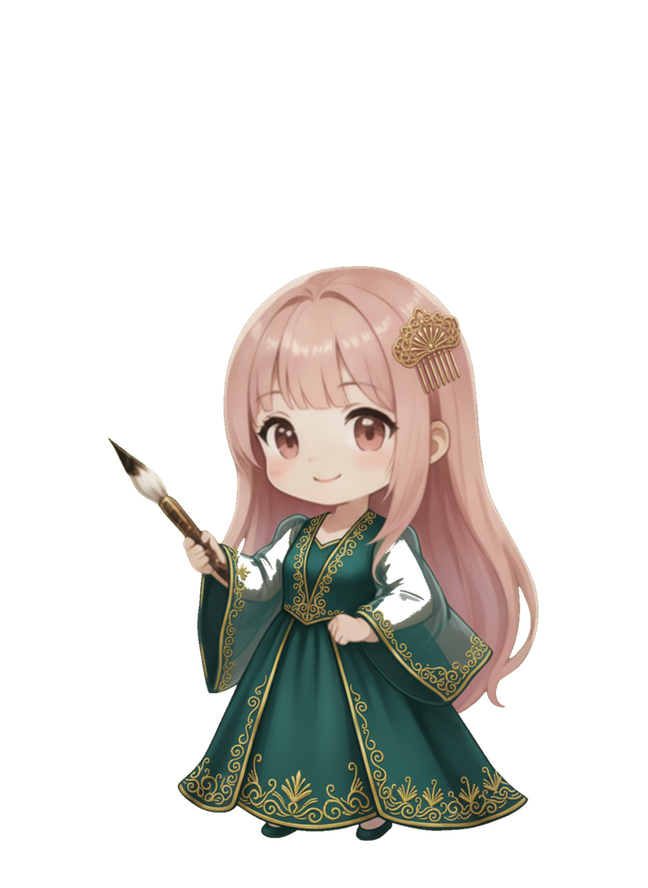
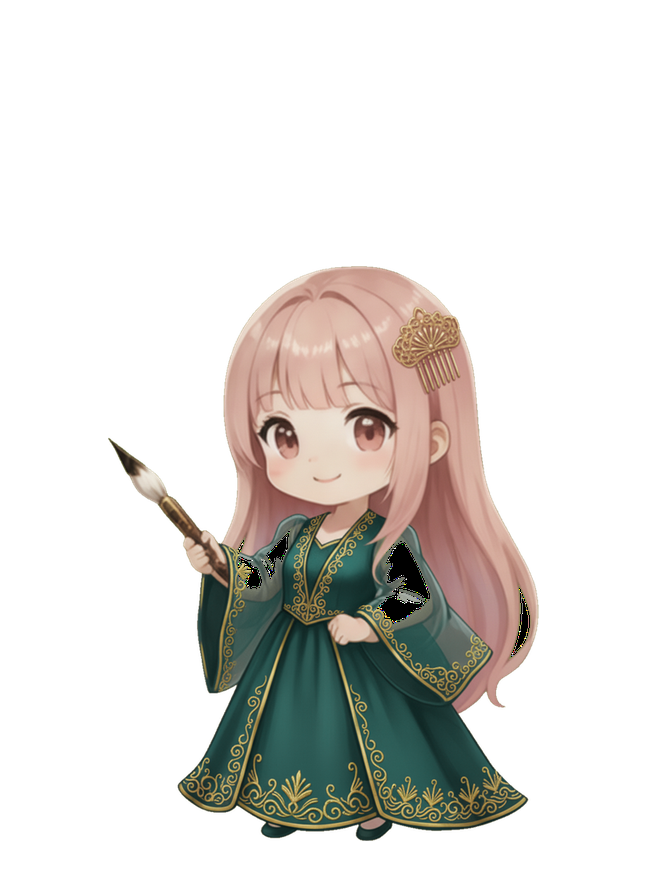
fix+feat(home/town/shop/dict): テルノ衣装の透過修正＋桜アバター差替(長/短)・筆キャラ非表示(ホーム/ショップ/在庫)＋ホームリング内を3行表示＋町の上部ボタン2行折返し＋ご褒美1/2トグル削除＋模試分析画面の母語バグ修正＋N3文法の下線修正(変種//・/〜/活用差に対応)＋新3点(ようとする/と共に/たって)の例文修正

Changed region(s): [[0.5864, 0.6081, 0.679, 0.6993], [0.3704, 0.5777, 0.463, 0.6689], [0.7716, 0.6689, 0.8333, 0.7601]]

diff --git a/src/home/HomeCoach.tsx b/src/home/HomeCoach.tsx
@@ -11,10 +11,9 @@ import SwipeSheet from '../components/SwipeSheet';
 import { useColors, type ThemeColors } from '../theme';
 import type { HomeStatus } from './homeStatus';
 
-const OPEN = require('../../assets/mywords/guide_open.png');
-const BLINK = require('../../assets/mywords/guide_blink.png');
-// 髪型「短髪」を装備中(かつ筆/衣装なし)の既定桜=短髪版(hair3を不透明化)。短髪用の閉じ目は無いのでまばたきは静止。
-const SHORT_OPEN = require('../../assets/mywords/guide_open_short.png');
+// 既定の桜(案内キャラ)=正面の立ち絵。髪型で長髪/短髪を出し分ける。筆は背負わない(筆キャラは廃止)。
+const SAKURA_LONG = require('../../assets/home/sakura_front_long.png');
+const SAKURA_SHORT = require('../../assets/home/sakura_front_short.png');
 // 柴1(pet_shiba1)だけ尻尾を振る=尻尾を別レイヤーに切り出し(尻尾=後/胴体=前・付け根を胴体で隠す)。
 const SHIBA1_BODY = require('../../assets/shop/companion/shiba1_body.png');
 const SHIBA1_TAIL = require('../../assets/shop/companion/shiba1_tail.png');
@@ -26,15 +25,12 @@ export default function HomeCoach({ status, learned }: { status: HomeStatus; lea
   const { width } = useWindowDimensions();
   const state = useAppState();
   const { equipItem } = useAppActions();
-  // 装備中の筆があれば、その「桜が筆を背負う絵」で出現。髪型がショートなら短髪版・標準はロング版。
-  const eqBrush = state.equipped?.brush;
+  // 筆キャラは廃止。桜は筆を背負わない。髪型(ショート/ロング)で既定の立ち絵を出し分ける。
   const isShort = state.equipped?.hair === 'hair_short';
-  const bItem = eqBrush ? SHOP_BY_ID[eqBrush] : undefined;
-  const brushImg = bItem ? (isShort ? bItem.homeShort : bItem.homeLong) : undefined;
-  // 民族衣装を装備中はその全身アバターを優先表示(髪型/筆より上位)。桜が各国の衣装をまとう。
+  // 民族衣装を装備中はその全身アバターを優先表示(髪型より上位)。桜が各国の衣装をまとう。
   const eqCostume = state.equipped?.costume;
   const costumeImg = eqCostume ? SHOP_BY_ID[eqCostume]?.asset : undefined;
-  const charImg = costumeImg ?? brushImg; // 優先: 民族衣装 > 筆(背負い) > 既定の案内キャラ
+  const charImg = costumeImg; // 優先: 民族衣装 > 既定の桜(長髪/短髪)
   // 仲間(柴犬): 装備中の1体を桜の左に常駐。番号が上がるほど大きい(homeScale)。
   const eqComp = state.equipped?.companion;
   const compItem = eqComp ? SHOP_BY_ID[eqComp] : undefined;
@@ -45,7 +41,6 @@ export default function HomeCoach({ status, learned }: { status: HomeStatus; lea
   const compAspect = compSrc?.width ? compSrc.height / compSrc.width : 1.08;
   const [showShop, setShowShop] = useState(false);
   const [showPicker, setShowPicker] = useState(false);
-  const [eyesClosed, setEyesClosed] = useState(false);
   const bob = useRef(new Animated.Value(0)).current;
   const dogSway = useRef(new Animated.Value(0)).current; // 犬: 体を左右にゆらす
   const tailWag = useRef(new Animated.Value(0)).current; // 柴1: 尻尾を振る
@@ -69,16 +64,7 @@ export default function HomeCoach({ status, learned }: { status: HomeStatus; lea
       Animated.timing(tailWag, { toValue: 0, duration: 300, useNativeDriver: true }),
     ]));
     wag.start();
-    let bAlive = true;
-    const bt: ReturnType<typeof setTimeout>[] = [];
-    const blink = () => {
-      if (!bAlive) return;
-      setEyesClosed(true);
-      bt.push(setTimeout(() => setEyesClosed(false), 130));
-      bt.push(setTimeout(blink, 2600 + Math.random() * 3200));
-    };
-    bt.push(setTimeout(blink, 1600));
-    return () => { loop.stop(); sway.stop(); wag.stop(); bAlive = false; bt.forEach(clearTimeout); };
+    return () => { loop.stop(); sway.stop(); wag.stop(); };
   }, [bob, dogSway, tailWag]);
 
   // 民族衣装/背負い筆の全身絵は縦長(≒864x1184)なので少し大きめ＋縦横比を変える。
@@ -105,7 +91,6 @@ export default function HomeCoach({ status, learned }: { status: HomeStatus; lea
   const itemsByKind = {
     hair: SHOP.filter((item) => item.kind === 'hair' && owned.has(item.id)),
     costume: SHOP.filter((item) => item.kind === 'costume' && owned.has(item.id)),
-    brush: SHOP.filter((item) => item.kind === 'brush' && owned.has(item.id)),
   };
   // 柴タップ=購入済みの仲間(柴犬)だけを並べて着せ替え。
   const ownedCompanions = SHOP.filter((item) => item.cat === 'companion' && owned.has(item.id));
@@ -140,7 +125,7 @@ export default function HomeCoach({ status, learned }: { status: HomeStatus; lea
         {/* 桜(案内キャラ)=右。タップで購入済みの着せ替え一覧。 */}
         <Animated.View style={{ transform: [{ translateY: bobY }], zIndex: dogInFront ? 1 : 0 }}>
           <Pressable onPress={() => setShowShop(true)} hitSlop={4}>
-            <Image source={charImg ?? (isShort ? SHORT_OPEN : (eyesClosed ? BLINK : OPEN))} style={{ width: charW, height: charH }} resizeMode="contain" />
+            <Image source={charImg ?? (isShort ? SAKURA_SHORT : SAKURA_LONG)} style={{ width: charW, height: charH }} resizeMode="contain" />
           </Pressable>
         </Animated.View>
       </View>
@@ -149,7 +134,6 @@ export default function HomeCoach({ status, learned }: { status: HomeStatus; lea
             {([
               { key: 'hair', title: t('shop.tab_hair'), items: itemsByKind.hair, slot: 'hair' as const },
               { key: 'costume', title: t('shop.tab_costume'), items: itemsByKind.costume, slot: 'costume' as const },
-              { key: 'brush', title: t('shop.tab_brush'), items: itemsByKind.brush, slot: 'brush' as const },
             ]).map((sec) => (
               <View key={sec.key} style={styles.section}>
                 <Text style={styles.sectionTitle}>{sec.title}</Text>

diff --git a/src/screens/KotobaTownScreen.tsx b/src/screens/KotobaTownScreen.tsx
@@ -798,11 +798,11 @@ export default function KotobaTownScreen() {
           <View style={s.topLeft} pointerEvents="box-none">
             {/* 見出しタップ=町の友だち一覧(招待して参加した人)。この一覧の相手にはメッセージ(応援)を送れる。 */}
             <Pressable style={s.pill} onPress={() => setMembersOpen(true)}>
-              <Text style={s.pillT}>{t('town.title')}</Text>
+              <Text style={s.pillT} numberOfLines={2}>{t('town.title')}</Text>
               <Ionicons name="people" size={13} color="#3a3128" style={{ marginLeft: 5 }} />
             </Pressable>
             {/* 友だちを町に招待(リンク共有→相手が参加で住人に)。白・アイコン無しでタイトル横に。 */}
-            <Pressable style={s.inviteWhite} onPress={onInvite}><Text style={s.inviteWhiteT}>{t('town.invite')}</Text></Pressable>
+            <Pressable style={s.inviteWhite} onPress={onInvite}><Text style={s.inviteWhiteT} numberOfLines={2}>{t('town.invite')}</Text></Pressable>
           </View>
           <View style={s.topRight} pointerEvents="box-none">
             {/* 受信箱(友だちからの応援)は共通ヘッダー(設定の左の鐘)へ移設。ここには置かない。 */}
@@ -1166,12 +1166,12 @@ const s = StyleSheet.create({
   viewport: { ...StyleSheet.absoluteFillObject, overflow: 'hidden' },
   top: { position: 'absolute', top: 0, left: 0, right: 0 },
   topBar: { flexDirection: 'row', alignItems: 'center', justifyContent: 'space-between', padding: 12 },
-  topLeft: { flexDirection: 'row', alignItems: 'center', gap: 8, flexShrink: 1 },
+  topLeft: { flexDirection: 'row', alignItems: 'center', gap: 8, flex: 1, marginRight: 8 },
   topRight: { flexDirection: 'row', alignItems: 'center', gap: 8 },
   bellBadge: { position: 'absolute', top: -3, right: -3, minWidth: 18, height: 18, borderRadius: 9, backgroundColor: '#e23b3b', borderWidth: 1.5, borderColor: '#ffffff', alignItems: 'center', justifyContent: 'center', paddingHorizontal: 3 },
   bellBadgeT: { color: '#ffffff', fontSize: 10, fontWeight: '900' },
-  pill: { flexDirection: 'row', alignItems: 'center', backgroundColor: 'rgba(255,253,248,0.9)', borderRadius: 999, paddingHorizontal: 14, paddingVertical: 7 },
-  pillT: { fontSize: 13, fontWeight: '900', color: '#3a3128' },
+  pill: { flexDirection: 'row', alignItems: 'center', backgroundColor: 'rgba(255,253,248,0.9)', borderRadius: 16, paddingHorizontal: 14, paddingVertical: 7, flexShrink: 1 },
+  pillT: { fontSize: 13, fontWeight: '900', color: '#3a3128', flexShrink: 1 },
   // 町の友だち一覧(ボトムシート)。
   memberBackdrop: { ...StyleSheet.absoluteFillObject, backgroundColor: 'rgba(0,0,0,0.4)' },
   memberSheet: { position: 'absolute', left: 0, right: 0, bottom: 0, backgroundColor: '#fbf7ef', borderTopLeftRadius: 20, borderTopRightRadius: 20, paddingHorizontal: 18, paddingTop: 14, paddingBottom: 30 },
@@ -1197,8 +1197,8 @@ const s = StyleSheet.create({
   msgSubmit: { marginTop: 12, backgroundColor: '#e2588f', borderRadius: 12, paddingVertical: 14, alignItems: 'center' },
   msgSubmitT: { color: '#fff', fontSize: 15, fontWeight: '900' },
   // 友だちを町に招待=白ボタン(アイコン無し)。タイトル横。
-  inviteWhite: { backgroundColor: 'rgba(255,253,248,0.95)', borderRadius: 999, paddingHorizontal: 14, paddingVertical: 7, borderWidth: 1, borderColor: 'rgba(58,49,40,0.15)' },
-  inviteWhiteT: { fontSize: 13, fontWeight: '900', color: '#3a3128', letterSpacing: 0.2 },
+  inviteWhite: { backgroundColor: 'rgba(255,253,248,0.95)', borderRadius: 16, paddingHorizontal: 14, paddingVertical: 7, borderWidth: 1, borderColor: 'rgba(58,49,40,0.15)', flexShrink: 1 },
+  inviteWhiteT: { fontSize: 13, fontWeight: '900', color: '#3a3128', letterSpacing: 0.2, textAlign: 'center', flexShrink: 1 },
   close: { width: 38, height: 38, borderRadius: 19, backgroundColor: 'rgba(255,253,248,0.9)', alignItems: 'center', justifyContent: 'center' },
   bottom: { position: 'absolute', left: 0, right: 0, bottom: 0 },
   stickWrap: { paddingBottom: 26 }, // 左右はhandedで付与(右利き=右)

diff --git a/src/screens/HomeScreen.tsx b/src/screens/HomeScreen.tsx
@@ -121,11 +121,10 @@ export default function HomeScreen() {
                   <Text numberOfLines={1} style={[styles.num, { fontSize: Math.round(bigFs), lineHeight: Math.round(bigFs) }]}>{predScore}</Text>
                   <Text numberOfLines={1} style={[styles.numSmall, { fontSize: smallFs, lineHeight: Math.round(bigFs) }]}>/{predMax}</Text>
                 </View>
-                {/* 現在レベル(N5/N4/N3 or JFT)＋「予想得点」。中央=受験レベルの予想得点/総得点。 */}
-                <View style={[styles.lblRow, { marginTop: 5 }]}>
-                  <Text style={[styles.lbl, { fontSize: Math.round(ringW * 0.085) }]}>{levelLabel}</Text>
-                  <Text style={[styles.lbl, { fontSize: Math.round(ringW * 0.085) }]}>{t('coach.pred_score')}</Text>
-                </View>
+                {/* 2行目=「予想得点」ラベル。母語で長い言語は穴幅(holeW)内で自動縮小=溢れさせない。 */}
+                <Text numberOfLines={1} adjustsFontSizeToFit style={[styles.lbl, { fontSize: Math.round(ringW * 0.085), width: holeW, textAlign: 'center', marginTop: 5 }]}>{t('coach.pred_score')}</Text>
+                {/* 3行目=受験レベル(N5/N4/N3 or JFT)。 */}
+                <Text numberOfLines={1} adjustsFontSizeToFit style={[styles.lbl, { fontSize: Math.round(ringW * 0.10), width: holeW, textAlign: 'center', marginTop: 1 }]}>{levelLabel}</Text>
               </View>
             </View>
           </Pressable>
@@ -155,7 +154,6 @@ const styles = StyleSheet.create({
   pctInner: { alignItems: 'center', justifyContent: 'center' },
   // 読みやすさ用の敷き=暗い半透明の円。柔らかい影で縁をぼかす(iOS=shadow / Android=elevation)。
   scrim: { backgroundColor: 'rgba(8,12,24,0.46)', shadowColor: '#05070f', shadowOpacity: 0.55, shadowRadius: 12, shadowOffset: { width: 0, height: 0 }, elevation: 6 },
-  lblRow: { flexDirection: 'row', alignItems: 'center', gap: 6 },
   lbl: { fontWeight: '800', letterSpacing: 1.5, color: '#f2f6ff', textShadowColor: 'rgba(0,0,0,0.85)', textShadowRadius: 5, textShadowOffset: { width: 0, height: 1 }, includeFontPadding: false },
   num: { fontWeight: '900', color: '#ffffff', textShadowColor: 'rgba(0,0,0,0.8)', textShadowRadius: 7, textShadowOffset: { width: 0, height: 1 }, textAlign: 'center', textAlignVertical: 'center', includeFontPadding: false },
   numSmall: { fontWeight: '800', color: '#eef3ff', textShadowColor: 'rgba(0,0,0,0.8)', textShadowRadius: 6, textShadowOffset: { width: 0, height: 1 } },

diff --git a/src/screens/BrowseScreen.tsx b/src/screens/BrowseScreen.tsx
@@ -245,11 +245,20 @@ export default function BrowseScreen() {
             )}
             <Text style={s.meaning}>{item.meaning}</Text>
             {(() => {
-              // 文法点を例文中で下線。活用等で辞書形がそのまま無い時は文法点の漢字にフォールバック(合う→合)。
-              const pt = item.point.replace(/[（(][^）)]*[）)]/g, '').replace(/[〜～]/g, '');
-              const plainEx = item.exampleJa.replace(/[（(][^）)]*[）)]/g, '');
-              const tgt = pt && plainEx.includes(pt) ? pt : (pt.match(/[一-鿿々〆〇ヶ]+/)?.[0] ?? pt);
-              return renderSentence(item.exampleJa, tgt);
+              // 文法点を例文で下線。ふりがな除去・〜分割・活用語尾の前方一致は RubyText(highlightHits)側が担う。
+              // ここでは①変種(/・)を解いて「例文に実在する変種」を選ぶ(A〜B型は〜を保持)②どの変種も前方一致しない
+              // (先頭活用差: た→だ/て→で/よう→こう 等)時は最長の後方一致片を代表下線にフォールバックする。
+              const stripFuri = (x: string) => x.replace(/[（(][^）)]*[）)]/g, '');
+              const plainEx = stripFuri(item.exampleJa);
+              const variants = stripFuri(item.point).split(/[/・･／]/).map((v) => v.trim()).filter(Boolean);
+              const prefixHit = (seg: string) => { for (let L = seg.length; L >= Math.min(2, seg.length); L--) if (plainEx.includes(seg.slice(0, L))) return true; return false; };
+              const variantOk = (v: string) => v.split(/[〜～]/).map((s) => s.trim()).filter(Boolean).every(prefixHit);
+              let tgt = variants.find(variantOk);
+              if (!tgt) {
+                const flat = (variants[0] ?? stripFuri(item.point)).replace(/[〜～]/g, '');
+                for (let s = 0; s < flat.length - 1 && !tgt; s++) { const suf = flat.slice(s); if (suf.length >= 2 && plainEx.includes(suf)) tgt = suf; }
+              }
+              return renderSentence(item.exampleJa, tgt ?? item.point);
             })()}
           </>
         )}

diff --git a/src/data/shop.ts b/src/data/shop.ts
@@ -20,8 +20,8 @@ export type ShopItem = {
 export const SHOP: ShopItem[] = [
   // 着せ替え(髪型/服/筆) — 巫女の見た目。髪型・服・筆はそれぞれ別スロットで同時装備できる。
   // ロング=標準髪型。初期から所持＋装備(INITIAL_STATE)。ショートを装備した後もここから戻せる。
-  { id: 'hair_long', cat: 'dressup', kind: 'hair', price: 0, name: 'ロング', asset: require('../../assets/shop/hair/long.png') },
-  { id: 'hair_short', cat: 'dressup', kind: 'hair', price: 800, name: 'ショート', asset: require('../../assets/shop/hair/short.png') },
+  { id: 'hair_long', cat: 'dressup', kind: 'hair', price: 0, name: 'ロング', asset: require('../../assets/home/sakura_front_long.png') },
+  { id: 'hair_short', cat: 'dressup', kind: 'hair', price: 800, name: 'ショート', asset: require('../../assets/home/sakura_front_short.png') },
   { id: 'brush_none', cat: 'dressup', kind: 'brush', price: 0, name: '筆なし', emoji: '🚫' },
   { id: 'brush_take', cat: 'dressup', kind: 'brush', price: 0, name: '竹の筆', rarity: 1, asset: require('../../assets/shop/brush/brush_take.png'), celebrate: require('../../assets/shop/celebrate/brush_take.png'), homeLong: require('../../assets/home/seoi/long/take.png'), homeShort: require('../../assets/home/seoi/short/take.png') },
   { id: 'brush_sakura', cat: 'dressup', kind: 'brush', price: 400, name: '桜染めの筆', rarity: 2, asset: require('../../assets/shop/brush/brush_sakura.png'), celebrate: require('../../assets/shop/celebrate/brush_sakura.png'), homeLong: require('../../assets/home/seoi/long/sakura.png'), homeShort: require('../../assets/home/seoi/short/sakura.png') },

diff --git a/src/store/state.ts b/src/store/state.ts
@@ -50,7 +50,6 @@ export interface Settings {
   devPro?: boolean;                         // 【開発用】ON=Pro課金状態 / OFF=無課金として扱う
   devFree?: boolean;                        // 【開発用】ON=無料ユーザー扱い(お試し中でも無料・1日の上限も実際にかける)
   devPassPct?: number | null;               // 【開発用】0-100を設定するとhomeStatus.passPctを固定(辞書背景/AIコーチ等の挙動確認)。null/未設定=自動計算
-  devRewardHalf?: boolean;                   // 【開発用】ON=ご褒美イラストを1/2(2回に1回)出す。通常は約1/10(REWARD_EVERY=10)
   devUnlimitedMock?: boolean;                // 【開発用】ON=模試チケットを消費せず無制限に受験できる(チケット0でも開始可)
   devMockSkip?: boolean;                      // 【開発用】ON=模試中に「次の休憩へ」スキップボタンを表示(現ブロックの設問を全カットして次の休憩/終了へ)
   devUnlockAll?: boolean;                      // 【開発用】ON=書斎の学習モードを全体カバー率に関係なく全解禁(動作確認用)。ポイント無限とは独立

diff --git a/src/screens/ProfileScreen.tsx b/src/screens/ProfileScreen.tsx
@@ -380,19 +380,6 @@ export default function ProfileScreen() {
               thumbColor={c.faint}
             />
           </View>
-          <View style={s.telemRow}>
-            <View style={s.telemTxt}>
-              <Text style={s.telemLbl}>ご褒美を1/2で出す</Text>
-              <Text style={s.subtle}>ON=ご褒美イラストを2回に1回出す（通常は約10回に1回）。表示頻度の確認用</Text>
-            </View>
-            <Switch
-              style={s.telemSwitch}
-              value={state.settings.devRewardHalf === true}
-              onValueChange={(v) => setSettings({ devRewardHalf: v })}
-              trackColor={{ true: c.blueLight, false: c.line }}
-              thumbColor={c.faint}
-            />
-          </View>
           {/* オープニング(初回のオンボーディング)を再表示。onboarded=falseで App が Onboarding 画面へ切替(認証フロー型)。 */}
           <Pressable style={s.telemRow} onPress={() => setSettings({ onboarded: false })}>
             <View style={s.telemTxt}>

diff --git a/src/screens/InventoryScreen.tsx b/src/screens/InventoryScreen.tsx
@@ -23,8 +23,8 @@ type Nav = NativeStackNavigationProp<RootStackParamList>;
 
 // 持ち物はカテゴリー(kind)別に並べる。順=SHOPカタログ順(筆=レベル順で天の霊筆が最後、各カテゴリのnoneが先頭)。
 const SHOP_ORDER: Record<string, number> = Object.fromEntries(SHOP.map((it, idx) => [it.id, idx]));
-const KIND_ORDER: ShopKind[] = ['hair', 'brush', 'costume', 'companion'];
-const KIND_LABEL_KEY: Partial<Record<ShopKind, string>> = { hair: 'shop.tab_hair', brush: 'shop.tab_brush', costume: 'shop.tab_costume', companion: 'shop.tab_companion' };
+const KIND_ORDER: ShopKind[] = ['hair', 'costume', 'companion']; // 筆(brush)は非表示(筆キャラ廃止)
+const KIND_LABEL_KEY: Partial<Record<ShopKind, string>> = { hair: 'shop.tab_hair', costume: 'shop.tab_costume', companion: 'shop.tab_companion' };
 const SHOW_BADGES = false; // アイテム欄の称号バッジ表示。一旦OFF(後で使うかも)。trueで復活。
 
 export default function InventoryScreen() {

diff --git a/src/screens/ShopScreen.tsx b/src/screens/ShopScreen.tsx
@@ -21,7 +21,6 @@ const BANNER_NIGHT = require('../../assets/shop/shop_banner_night.jpg');
 // ショップのカテゴリタブ。順=髪型/筆/民族衣装/道具/仲間。各タブは単一種別なので小見出しは不要。
 const TABS: { key: string; labelKey: string; match: (i: ShopItem) => boolean }[] = [
   { key: 'hair', labelKey: 'shop.tab_hair', match: (i) => i.kind === 'hair' },
-  { key: 'brush', labelKey: 'shop.tab_brush', match: (i) => i.kind === 'brush' },
   { key: 'costume', labelKey: 'shop.tab_costume', match: (i) => i.kind === 'costume' },
   { key: 'tool', labelKey: 'shop.tab_tool', match: (i) => i.cat === 'tool' },
   { key: 'companion', labelKey: 'shop.tab_companion', match: (i) => i.cat === 'companion' },

diff --git a/src/screens/MockScreen.tsx b/src/screens/MockScreen.tsx
@@ -642,7 +642,7 @@ export default function MockScreen() {
               <Text style={s.sectionH}>{t('mock.pred_sections')}</Text>
               <View style={s.heatCard}>
                 {est.sections.map((sec) => (
-                  <PointBar key={sec.key} label={sec.label} sec={sec} tc={c} s={s} />
+                  <PointBar key={sec.key} label={t('mock.block_' + sec.key)} sec={sec} tc={c} s={s} />
                 ))}
                 <Text style={s.predNote}>{t('mock.pred_note')}</Text>
               </View>

diff --git a/memory/handoff.md b/memory/handoff.md
@@ -2,6 +2,7 @@
 
 ## 次の一手（LIVE＝いま動いている / 次にやる）
 - **🆕 2026-08-11 UI日本語ベタ書きのi18n化(進行中・未コミット/未ビルド)**: t()未経由の日本語UI(約772行/67ファイル)を ja/en/ne キー化。**済**=AICoach(coach.* 59)/Mock+Account(31)/Home+Onboard+MockIntro(12)/AfterStudyRewardのごほうびUI(reward.* 18)。**ProfileScreen開発用=隠しゲート化**(設定最下部バージョンを7回タップでdevUnlocked=true・__DEV__は既定true・実ユーザー非表示なので翻訳不要)。**桜ボイス多言語化=完了(end-to-end)**(voice.ts に `renderVoice(ids,tr)`＋`voice.<id>`キー・`voice.sep`(ja=''/en・ne=' ')。**AfterStudyReward**＝`renderVoice([...res.ids,extra?.id,closerId],t)`経由。**SakuraSpeech**＝`pickBubble`→`pickBubbleIds`(id列返し)にしt注入で`renderVoice`化・`NEWCOMER_BUBBLES`(5)→`voice.newcomer.*`・`SAKURA_CLOSERS`(8)→`voice.close_daily.*`・オススメ案内→`sakura.reco_hint`。**en/ne 全156キー翻訳投入済**(voice全句＋newcomer5＋reco・桜の癒し口調で創作寄り訳・en^ne差0・ja全在=フォールバック安全)=**tsc0・テスト390緑・en/ne実レンダリング確認済**(scratchpad/voice_translate.py)。**桜ボイス=完了**。**persona.ts(町)=完了(end-to-end)**=性格20＋セリフ20＋気分20＋会話バブル4ページ＋「また町で会おうね」を i18n(persona.trait/line/mood/talk・**67キーja/en/ne**・絵文字はmoodにそのまま)。persona.ts に t解決版 `traitLabel/moodMsgText/personaLine`＋有効キーガード追加(既存 personalityOf/moodMsgOf/label は**ja正本=テレメトリ/管理画面用に残置**)。差し替え=Account/Onboarding/KotobaTown(useT追加・timeout局所t→tm改名)=**tsc0・テスト390緑・en/ne実レンダリング確認済**(scratchpad/persona_translate.py＋talk_keys.py)。**KotobaTown本体=完了(end-to-end)**=上部バー/友だち一覧/解除Alert/共有文/応援送信シート/会話ステータス(名前・性格・得意・気分・国名・総時間)/覚えた単語バー(漢字語彙文法)/桜ほめ言葉6/桜ステータス/マスコットtag/CHEERS定型 を i18n(**town.* 49キー ja/en/ne**)。`sakuraPraise(streak,t)`＋module `facetLabel(t,ja)`(漢字語彙文法読解聴解→現在語)追加。CHEERS.labelは表示のみ→`t('town.cheer.'+key)`化(送信は`cheerSend(fid,key)`=受信側が母語解決)。`TAB_ORDER=['ホーム'…]`は**遷移route名=非翻訳(据置)**。personalityOf撤去→`traitLabel`、estEm局所t→s改名。=tsc0・テスト390緑・en/ne実レンダリング確認済(scratchpad/town_translate.py)。**CheerInbox/Browse/Invite=完了**=CheerInbox(応援キー→`t('town.cheer.'+key)`・旧定型6もtown.cheer.*追加・相対時刻`time.*`・受信箱UI`cheerinbox.*`・CHEER_INFO→CHEER_EMOJI化で幽霊ラベル排除)/Invite(useT+useUiLang・題/meta/sub/参加/断る/countryLabel(,'ja')→uiLang)/Browse(音訓tag=データを'on'/'kun'保持し描画時解決`browse.tag_on/kun`・再生a11y)。**Cards=変更不要**(既にlabelKey・残りは漢語文グリフとコメントのみ)。town.cheer legacy6+cheerinbox3+time4+invite10+browse3=+26キー。tsc0/テスト390緑。**i18n残り第2弾=完了**: ExamInfoCard(examinfo.* 10・期間/費用/注記も母語化)/QuestionReview(qreview.* 5)/Kakitori(common.hiragana/katakana)/KanjiDetail・Flashcard(音訓→browse.tag_*)/notifications(notif.channel/body・scheduleDailyReminder(time,lang)にlang追加・ProfileScreen callerでuiLang渡す)/**shop(柴犬12種shop.name_pet_{shiba,kuro}1-6追加＋旧pet_dog/fox/cat/tanuki 4幽霊キー削除＋未使用SHOP_CATS/KIND_LABEL削除)**/**categories(cat.<id> 55カテゴリをja/en/ne・BrowseScreenの見出しをt('cat.'+catId/umbrella)へ配線・CAT_BY_ID import除去)**。**MiniCalendar=対応不要**(profile.weekdays 3言語済)。**ProfileScreen開発用26=翻訳不要**(隠しゲート・実ユーザー非表示)。**badges.ts=未配線(computeBadges/BadgeGridはtestのみ参照=非表示)→スキップ**。**selectors.ts得意/科目ラベル=保留**(テレメトリ=ja正本と絡む・要精査)。+19+12+55=+86キー。tsc0/テスト390緑。**i18n以外の対象外**=wordDrill(かな)/index.ts(大問名→内部マップ)/virtualLearners(facetLabelで解決済)/countries(母語名=自称で正)/daimon.ts(出題文=問題)/dictView(読み区切り)。**問題関連(出題文・選択肢・解説・kana.ts・quiz.ts出題文)は対象外(日本語のまま)**。i18nキー=フラットなドットキー・CRLF維持・末尾追記のみ(全体再整形しない)。`tools/i18n_backlog.py`はjson差分専用でベタ書きは検出不可(コード走査は`scan_jp.py`方式)。
+- **🆕 2026-08-11 桜立ち絵差替＋筆キャラ廃止(未コミット/未ビルド)**: ①ホームの桜=既定立ち絵を**新・正面立ち絵**に差替(`assets/home/sakura_front_{long,short}.png`=画像/…/桜_正面_{L,S}.pngをαPNGで取込・短髪は高さ500へ縮小)。HomeCoachの`SAKURA_LONG/SHORT`。②**筆キャラ全廃**=筆の背負い姿(homeLong/homeShort)を桜に一切出さない(brushImgロジック撤去・charImg=costumeImgのみ)＋まばたき機構(eyesClosed/BLINK/blinkタイマ)撤去。③**筆を非表示**=ShopScreenのbrushタブ削除／HomeCoach着せ替えシートのbrush節削除／InventoryScreenのKIND_ORDER・KIND_LABEL_KEYからbrush除去。※SHOPのbrushデータ(homeLong等)・guide_open_short.pngは未参照で残置(データ/素材・害なし)。guide_open/blinkはmywordsArt.tsで現用。tsc0/テスト390緑。
 - **🆕 2026-08-11 書庫の段階成長廃止＋桜正面切り抜き(未コミット/未ビルド)**: ①辞書タブ書庫=**予想得点5段階復元を全廃**し**昼/夜2枚**に(`画像/アプリ画像/書庫_{昼,夜}.png`→JPG化して`assets/tabs/dict_bg_{day,night}.jpg`上書き)。tabArt.tsから`DICT_DAY_STAGES/dictStageIndex/useDictBg`削除・DictHomeScreenを`useTabBg('dict')`へ(homeStatus依存も除去)。**幽霊掃除**=`dict_bg_day_s1..s5.jpg`5枚削除・参照0(grep確認)。②`画像/キャラクター/アバター/桜/桜.png`(8ポーズ表・1448x1086)から**正面直立ポーズ(R2C2)をαカット**(背景マゼンタ202,18,129を距離αで透過・302x500)→**`画像/キャラクター/アバター/桜/桜_正面.png`**保存(未配線=素材のみ)。tsc0/テスト390緑。
 - **🆕 2026-08-11 解禁演出の画像/文言修正(未コミット/未ビルド)**: UnlockCelebration=①絵を**上寄せ表示**(hero aspect760/1100・img absolute top:0 aspect760/1350=下側だけ切れる)にし、絵に描かれた上部モード名(聞き取り等)の**切れを解消**。②画像に重ねていた「◯◯解禁」オーバーレイを**撤去**し画面下部テキストへ集約=「カバー率◯％達成！／〇〇解禁」(新キー`unlock.mode_unlocked`=ja`{mode}解禁`/en`{mode} Unlocked`/ne`{mode} खुल्यो`・言語別スペース対応)。画像4枚はモード名のみ焼き込み(解禁の語は元から無し)=**画像差し替え不要**。tsc0・テスト390緑・実クロップをPIL検証(聞き取り/文法パズルとも全文表示・桜の顔残る)。
 - **🆕 2026-08-11 このセッションの他対応(未コミット/一部Build2779)**: ①模試タブ「動かない」=**月1フル模試ロックが原因**(IDリネームと無関係)・`devUnlockAll`ONでロックも外す(StudyHomeScreen)②**得意5分割**(漢字/語彙/文法/読解/聴解・`selectors.strongFacetJa`・漢字読み系に`vocabId`明示追加でid=単語鍵を解消・daimon.ts slice(3)→vocabOf)③**文字語彙/文法ID統一**(`N?-V/G-{K/H/B/I/Y/N/S}-NNNN`)＋**読解/聴解を4桁化**(`…-0001`・聴解mp3 520本も`assets/audio/{id}.mp3`改名=URL一致確認済)=**Build2779提出済**④AIコーチ「模試の記録」カードを「この7日の成長」直後へ移動⑤ダッシュボードに**状態列**(無料/7日Pro・view要再実行)。バックアップ=`../_backup_JLPT_id-rename_mojibunpou/`。
@@ -74,12 +75,12 @@
 ## 直近24時間の変更ファイル（自動）
 - memory/session-summary-LATEST.md
 - memory/handoff.md
-- 画像/キャラクター/アバター/桜/桜_正面_S.png
-- src/store/selectors.ts
-- src/screens/AICoachScreen.tsx
-- 画像/キャラクター/アバター/桜/1竹の筆.png
+- src/ladder/inventory.test.ts
+- src/data/shared/grammar.json
 - src/screens/BrowseScreen.tsx
-- src/i18n/ne.json
+- 画像/キャラクター/アバター/桜/10桜_正面_片側三つ編み.png
+- 画像/キャラクター/アバター/桜/09桜_正面_低めロングポニー.png
+- 画像/キャラクター/アバター/桜/08桜_正面_三つ編みハーフアップ.png
 
-_自動更新: 2026-08-11 19:20_
+_自動更新: 2026-08-11 21:03_
 <!-- AUTO:END -->

diff --git a/memory/session-summary-LATEST.md b/memory/session-summary-LATEST.md
@@ -1,18 +1,19 @@
 # 前セッション圧縮情報
 
 ## 何をしたか
-- ツール呼び出し 5 回・15 ターン
-- 往復 70232 回
+- ツール呼び出し 3 回・11 ターン
+- 往復 75700 回
 
 ## 何が変わったか
 - memory/handoff.md
 - memory/session-summary-LATEST.md
-- 画像/キャラクター/アバター/桜/桜_正面_S.png
-- src/store/selectors.ts
-- src/screens/AICoachScreen.tsx
+- src/ladder/inventory.test.ts
+- src/data/shared/grammar.json
+- src/screens/BrowseScreen.tsx
 
 ## 次の一手
 - **🆕 2026-08-11 UI日本語ベタ書きのi18n化(進行中・未コミット/未ビルド)**: t()未経由の日本語UI(約772行/67ファイル)を ja/en/ne キー化。**済**=AICoach(coach.* 59)/Mock+Account(31)/Home+Onboard+MockIntro(12)/AfterStudyRewardのごほうびUI(reward.* 18)。**ProfileScreen開発用=隠しゲート化**(設定最下部バージョンを7回タップでdevUnlocked=true・__DEV__は既定true・実ユーザー非表示なので翻訳不要)。**桜ボイス多言語化=完了(end-to-end)**(voice.ts に `renderVoice(ids,tr)`＋`voice.<id>`キー・`voice.sep`(ja=''/en・ne=' ')。**AfterStudyReward**＝`renderVoice([...res.ids,extra?.id,closerId],t)`経由。**SakuraSpeech**＝`pickBubble`→`pickBubbleIds`(id列返し)にしt注入で`renderVoice`化・`NEWCOMER_BUBBLES`(5)→`voice.newcomer.*`・`SAKURA_CLOSERS`(8)→`voice.close_daily.*`・オススメ案内→`sakura.reco_hint`。**en/ne 全156キー翻訳投入済**(voice全句＋newcomer5＋reco・桜の癒し口調で創作寄り訳・en^ne差0・ja全在=フォールバック安全)=**tsc0・テスト390緑・en/ne実レンダリング確認済**(scratchpad/voice_translate.py)。**桜ボイス=完了**。**persona.ts(町)=完了(end-to-end)**=性格20＋セリフ20＋気分20＋会話バブル4ページ＋「また町で会おうね」を i18n(persona.trait/line/mood/talk・**67キーja/en/ne**・絵文字はmoodにそのまま)。persona.ts に t解決版 `traitLabel/moodMsgText/personaLine`＋有効キーガード追加(既存 personalityOf/moodMsgOf/label は**ja正本=テレメトリ/管理画面用に残置**)。差し替え=Account/Onboarding/KotobaTown(useT追加・timeout局所t→tm改名)=**tsc0・テスト390緑・en/ne実レンダリング確認済**(scratchpad/persona_translate.py＋talk_keys.py)。**KotobaTown本体=完了(end-to-end)**=上部バー/友だち一覧/解除Alert/共有文/応援送信シート/会話ステータス(名前・性格・得意・気分・国名・総時間)/覚えた単語バー(漢字語彙文法)/桜ほめ言葉6/桜ステータス/マスコットtag/CHEERS定型 を i18n(**town.* 49キー ja/en/ne**)。`sakuraPraise(streak,t)`＋module `facetLabel(t,ja)`(漢字語彙文法読解聴解→現在語)追加。CHEERS.labelは表示のみ→`t('town.cheer.'+key)`化(送信は`cheerSend(fid,key)`=受信側が母語解決)。`TAB_ORDER=['ホーム'…]`は**遷移route名=非翻訳(据置)**。personalityOf撤去→`traitLabel`、estEm局所t→s改名。=tsc0・テスト390緑・en/ne実レンダリング確認済(scratchpad/town_translate.py)。**CheerInbox/Browse/Invite=完了**=CheerInbox(応援キー→`t('town.cheer.'+key)`・旧定型6もtown.cheer.*追加・相対時刻`time.*`・受信箱UI`cheerinbox.*`・CHEER_INFO→CHEER_EMOJI化で幽霊ラベル排除)/Invite(useT+useUiLang・題/meta/sub/参加/断る/countryLabel(,'ja')→uiLang)/Browse(音訓tag=データを'on'/'kun'保持し描画時解決`browse.tag_on/kun`・再生a11y)。**Cards=変更不要**(既にlabelKey・残りは漢語文グリフとコメントのみ)。town.cheer legacy6+cheerinbox3+time4+invite10+browse3=+26キー。tsc0/テスト390緑。**i18n残り第2弾=完了**: ExamInfoCard(examinfo.* 10・期間/費用/注記も母語化)/QuestionReview(qreview.* 5)/Kakitori(common.hiragana/katakana)/KanjiDetail・Flashcard(音訓→browse.tag_*)/notifications(notif.channel/body・scheduleDailyReminder(time,lang)にlang追加・ProfileScreen callerでuiLang渡す)/**shop(柴犬12種shop.name_pet_{shiba,kuro}1-6追加＋旧pet_dog/fox/cat/tanuki 4幽霊キー削除＋未使用SHOP_CATS/KIND_LABEL削除)**/**categories(cat.<id> 55カテゴリをja/en/ne・BrowseScreenの見出しをt('cat.'+catId/umbrella)へ配線・CAT_BY_ID import除去)**。**MiniCalendar=対応不要**(profile.weekdays 3言語済)。**ProfileScreen開発用26=翻訳不要**(隠しゲート・実ユーザー非表示)。**badges.ts=未配線(computeBadges/BadgeGridはtestのみ参照=非表示)→スキップ**。**selectors.ts得意/科目ラベル=保留**(テレメトリ=ja正本と絡む・要精査)。+19+12+55=+86キー。tsc0/テスト390緑。**i18n以外の対象外**=wordDrill(かな)/index.ts(大問名→内部マップ)/virtualLearners(facetLabelで解決済)/countries(母語名=自称で正)/daimon.ts(出題文=問題)/dictView(読み区切り)。**問題関連(出題文・選択肢・解説・kana.ts・quiz.ts出題文)は対象外(日本語のまま)**。i18nキー=フラットなドットキー・CRLF維持・末尾追記のみ(全体再整形しない)。`tools/i18n_backlog.py`はjson差分専用でベタ書きは検出不可(コード走査は`scan_jp.py`方式)。
+- **🆕 2026-08-11 桜立ち絵差替＋筆キャラ廃止(未コミット/未ビルド)**: ①ホームの桜=既定立ち絵を**新・正面立ち絵**に差替(`assets/home/sakura_front_{long,short}.png`=画像/…/桜_正面_{L,S}.pngをαPNGで取込・短髪は高さ500へ縮小)。HomeCoachの`SAKURA_LONG/SHORT`。②**筆キャラ全廃**=筆の背負い姿(homeLong/homeShort)を桜に一切出さない(brushImgロジック撤去・charImg=costumeImgのみ)＋まばたき機構(eyesClosed/BLINK/blinkタイマ)撤去。③**筆を非表示**=ShopScreenのbrushタブ削除／HomeCoach着せ替えシートのbrush節削除／InventoryScreenのKIND_ORDER・KIND_LABEL_KEYからbrush除去。※SHOPのbrushデータ(homeLong等)・guide_open_short.pngは未参照で残置(データ/素材・害なし)。guide_open/blinkはmywordsArt.tsで現用。tsc0/テスト390緑。
 - **🆕 2026-08-11 書庫の段階成長廃止＋桜正面切り抜き(未コミット/未ビルド)**: ①辞書タブ書庫=**予想得点5段階復元を全廃**し**昼/夜2枚**に(`画像/アプリ画像/書庫_{昼,夜}.png`→JPG化して`assets/tabs/dict_bg_{day,night}.jpg`上書き)。tabArt.tsから`DICT_DAY_STAGES/dictStageIndex/useDictBg`削除・DictHomeScreenを`useTabBg('dict')`へ(homeStatus依存も除去)。**幽霊掃除**=`dict_bg_day_s1..s5.jpg`5枚削除・参照0(grep確認)。②`画像/キャラクター/アバター/桜/桜.png`(8ポーズ表・1448x1086)から**正面直立ポーズ(R2C2)をαカット**(背景マゼンタ202,18,129を距離αで透過・302x500)→**`画像/キャラクター/アバター/桜/桜_正面.png`**保存(未配線=素材のみ)。tsc0/テスト390緑。
 - **🆕 2026-08-11 解禁演出の画像/文言修正(未コミット/未ビルド)**: UnlockCelebration=①絵を**上寄せ表示**(hero aspect760/1100・img absolute top:0 aspect760/1350=下側だけ切れる)にし、絵に描かれた上部モード名(聞き取り等)の**切れを解消**。②画像に重ねていた「◯◯解禁」オーバーレイを**撤去**し画面下部テキストへ集約=「カバー率◯％達成！／〇〇解禁」(新キー`unlock.mode_unlocked`=ja`{mode}解禁`/en`{mode} Unlocked`/ne`{mode} खुल्यो`・言語別スペース対応)。画像4枚はモード名のみ焼き込み(解禁の語は元から無し)=**画像差し替え不要**。tsc0・テスト390緑・実クロップをPIL検証(聞き取り/文法パズルとも全文表示・桜の顔残る)。
 - **🆕 2026-08-11 このセッションの他対応(未コミット/一部Build2779)**: ①模試タブ「動かない」=**月1フル模試ロックが原因**(IDリネームと無関係)・`devUnlockAll`ONでロックも外す(StudyHomeScreen)②**得意5分割**(漢字/語彙/文法/読解/聴解・`selectors.strongFacetJa`・漢字読み系に`vocabId`明示追加でid=単語鍵を解消・daimon.ts slice(3)→vocabOf)③**文字語彙/文法ID統一**(`N?-V/G-{K/H/B/I/Y/N/S}-NNNN`)＋**読解/聴解を4桁化**(`…-0001`・聴解mp3 520本も`assets/audio/{id}.mp3`改名=URL一致確認済)=**Build2779提出済**④AIコーチ「模試の記録」カードを「この7日の成長」直後へ移動⑤ダッシュボードに**状態列**(無料/7日Pro・view要再実行)。バックアップ=`../_backup_JLPT_id-rename_mojibunpou/`。
